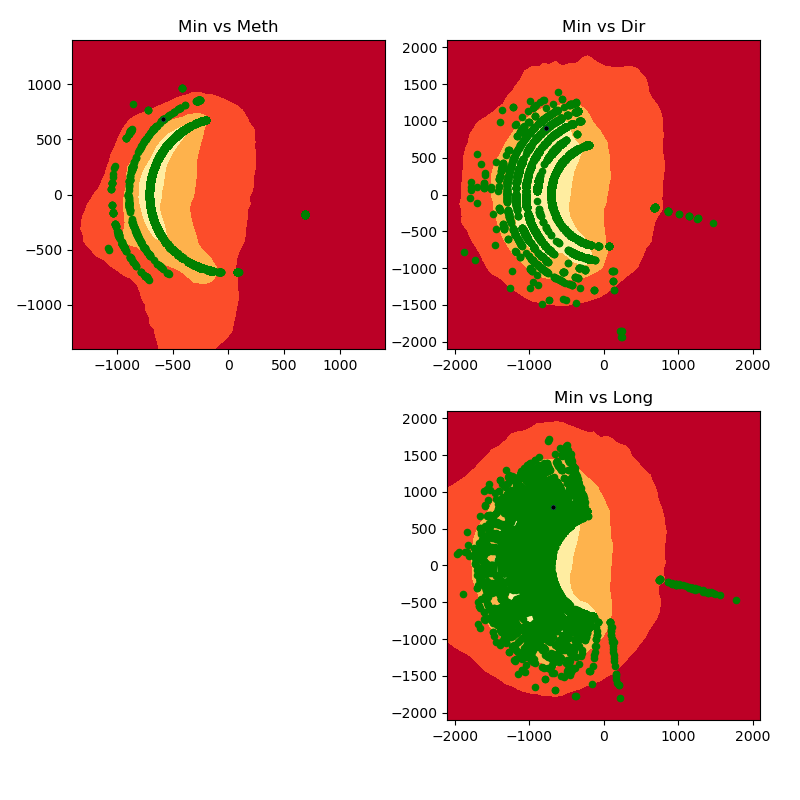
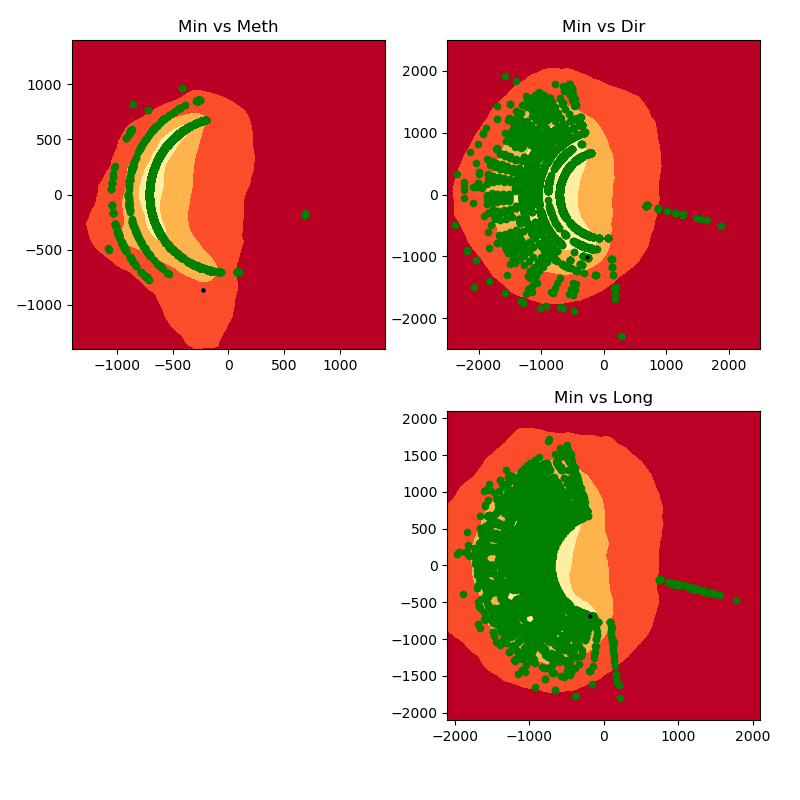
minor fixes

diff --git a/kass_nn/util/parse_logs.py b/kass_nn/util/parse_logs.py
@@ -39,8 +39,8 @@ class LogParser:
         self.comb_list_ip_url = []
         self.comb_list_ip_meth_url = []
 
-        self.weights_train = [1,1,20,500,1,1,1]
-        self.weights_test = [1,1,20,500,1,1,1]
+        self.weights_train = [1,1,1,1,1,1,1]
+        self.weights_test = [1,1,1,1,1,1,1]
 
         self.parsed_train_data = []
         self.parsed_train_data = self.parse_file(filename, True)
@@ -234,13 +234,15 @@ class LogParser:
         request = [r for r in request if r is not '']
         method = request[2]
         # URL dir
-        url = request[3]
+        url = request[3] # here
         url_list = url.split("/")
         directory = ''
-        if len(url_list) < 3:
+        if len(url_list) < 3 and len(url_list[1].split(".")) > 1:
             directory = url_list[0]
         else:
             directory = url_list[1]
+        #print(url_list)
+        #print(directory)
         return [ip, method, directory]
 
     def get_combined_strings(self, log):
@@ -311,7 +313,7 @@ class LogParser:
         url = request[3]
         url_list = url.split("/")
         directory = ''
-        if len(url_list) < 3:
+        if len(url_list) < 3 and len(url_list[1].split(".")) > 1:
             directory = url_list[0]
         else:
             directory = url_list[1]
@@ -327,7 +329,7 @@ class LogParser:
         url = request[3]
         url_list = url.split("/")
         directory = ''
-        if len(url_list) < 3:
+        if len(url_list) < 3 and len(url_list[1].split(".")) > 1:
             directory = url_list[0]
         else:
             directory = url_list[1]
@@ -434,6 +436,7 @@ class LogParser:
         length = len(url)
         str_len = str(length)
         self.parse_str_to_dict_freq(self.dict_req_len, self.dict_req_len_freq, str_len, 0)
+
         """
         try:
             if str_len not in self.dict_req_len:
@@ -442,7 +445,10 @@ class LogParser:
             print(e)
             return self.dict_req_len
         """
-        return self.dict_req_len[str_len]
+        try:
+            return self.dict_req_len[str_len]
+        except:
+            return len(self.dict_req_len)
 
 
     """============================== PARSE TO DICT ================================"""
@@ -462,7 +468,8 @@ class LogParser:
                 if len(dictionary) == 0:
                     dictionary[word] = 0
                 else:
-                    dictionary[word] = (int(dictionary[list(dictionary)[len(dictionary)-1]]/step)+1)*step
+                    #dictionary[word] = (int(dictionary[list(dictionary)[len(dictionary)-1]]/step)+1)*step
+                    dictionary[word] = int(dictionary[list(dictionary)[len(dictionary)-1]])+1
         finally:
             return dictionary
 

diff --git a/kass_nn/util/load_parsed_logs.py b/kass_nn/util/load_parsed_logs.py
@@ -23,7 +23,10 @@ def load_data_pandas(filename, is_train, logpar, columns):
     #data_train = logpar.parse_file(filename, is_train) 
     # if test input by console
     data_train = logpar.public_parse_line(filename, is_train)
-    return pd.DataFrame(data_train)[columns]
+    try:
+        return pd.DataFrame(data_train)[columns]
+    except:
+        return None
 
 
 def load_parsed_data(filename, is_train, charac):

diff --git a/kass_nn/level_1/main.py b/kass_nn/level_1/main.py
@@ -16,7 +16,7 @@ def run_level_1(train_filename, test_filename, config_file, logpar):
     print("="*80)
     print("Dangerousness in range [0-100]: {}".format(
         dangerousness.get_danger_value(presence_list_single, presence_list_combined, config_file)))
-    return False not in presence_list_single
+    return False not in presence_list_single and False not in presence_list_combined
 
 
 def main(test_file):

diff --git a/kass_nn/level_2/danger_labeling/dangerousness.py b/kass_nn/level_2/danger_labeling/dangerousness.py
@@ -38,6 +38,7 @@ def get_dangerousness(anomaly_values, config_file):
     none_values_rest = 0
     none_values_num = 0
     i = 0
+    # Share value ponderation between the rest of characteristics if one is None
     for val in anomaly_values:
         if val is None:
             none_values_rest += danger_values[dict_ponds[i]]
